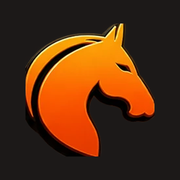
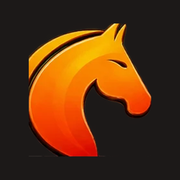
Nova arte do hero e hover por arraste no touch
Troca a arte pelo Tom de chapeu no microfone. Ela e quase quadrada
(1.003) contra 1.156 da anterior, entao o build passou a recalcular o
container do hero a partir da proporcao do arquivo em vez de usar os
valores cravados do export -- trocar a arte de novo nao quebra mais o
enquadramento.

O favicon tambem deixa de depender de coordenadas fixas: acha o cavalo
pelo maior bloco laranja saturado e quase quadrado no terco de baixo da
arte. Conferido nas duas artes.

Hover no celular: nao existe :hover no touch, so depois do toque e
ainda fica grudado. Agora o card sob o dedo recebe .ativo enquanto o
dedo passa. O build espelha cada regra .lnk:hover para .lnk.ativo, entao
hover novo que vier de export futuro ja entra junto.

Changed region(s): [[0.1389, 0.1111, 0.8611, 0.8889]]

diff --git a/index.html b/index.html
@@ -24,64 +24,7 @@ html { touch-action: manipulation; -webkit-text-size-adjust: 100%; text-size-adj
 }
 </style>
 <style>
-body{margin:0}
-a{color:inherit;text-decoration:none}a:hover{color:inherit}
-.chrome{font-family:'Archivo',sans-serif;font-weight:900;font-stretch:125%;line-height:1;color:transparent;-webkit-text-stroke:1.5px #2f343a;filter:drop-shadow(0 5px 4px rgba(0,0,0,.45))}
-.chrome{background:linear-gradient(105deg,transparent 42%,rgba(255,255,255,.95) 50%,transparent 58%),linear-gradient(180deg,#ffffff 0%,#e3e6ea 22%,#9aa0a8 44%,#5b6168 50%,#f5f7f9 56%,#c4c9cf 74%,#7d838b 100%);background-size:300% 100%,100% 100%;background-repeat:no-repeat;-webkit-background-clip:text;background-clip:text;animation:shine 4.5s ease-in-out infinite}
-@keyframes shine{0%,55%{background-position:120% 0,0 0}100%{background-position:-20% 0,0 0}}
-.m-beat{animation:beat .9s ease-in-out infinite;transform-origin:50% 60%}
-@keyframes beat{0%,100%{transform:scale(1)}12%{transform:scale(1.022)}30%{transform:scale(1.004)}45%{transform:scale(1.014)}}
-.m-line{animation:glow 2.4s ease-in-out infinite}
-@keyframes glow{0%,100%{opacity:.45;box-shadow:0 0 0 rgba(246,135,31,0)}50%{opacity:1;box-shadow:0 0 12px rgba(246,135,31,.8)}}
-.m-note{opacity:0;animation:note 4.4s ease-in-out infinite}
-@keyframes note{0%{opacity:0;transform:translateY(20px) rotate(-10deg) scale(.8)}20%{opacity:.9}70%{opacity:.7}100%{opacity:0;transform:translateY(-120px) rotate(12deg) scale(1.05)}}
-.m-float{animation:float 3.6s ease-in-out infinite}
-@keyframes float{0%,100%{transform:translateY(0)}50%{transform:translateY(-6px)}}
-.m-horse{transform-origin:40% 95%;animation:horse 1.8s ease-in-out infinite}
-@keyframes horse{0%,100%{transform:rotate(-3deg)}50%{transform:rotate(4deg) translateY(-3px)}}
-.m-shoe{transform-origin:50% 0;animation:shoe 2.2s ease-in-out infinite}
-@keyframes shoe{0%,100%{transform:rotate(-5deg)}50%{transform:rotate(5deg)}}
-.m-eq{transform-origin:right center;animation:eq .9s ease-in-out infinite}
-.m-eq.r{transform-origin:left center;animation-delay:-.45s}
-@keyframes eq{0%,100%{transform:scaleX(1)}25%{transform:scaleX(.45)}50%{transform:scaleX(.85)}75%{transform:scaleX(.6)}}
-.m-cta{animation:ctaglow 1.8s ease-in-out infinite,rise .7s ease-out .1s backwards}
-@keyframes ctaglow{0%,100%{box-shadow:0 10px 22px rgba(214,90,10,.28)}50%{box-shadow:0 12px 34px rgba(240,110,20,.55)}}
-.m-wave{transform-box:fill-box;transform-origin:center;animation:wave 2.6s ease-in-out infinite alternate}
-@keyframes wave{0%{transform:translateX(-8px) scaleY(.75)}100%{transform:translateX(8px) scaleY(1.25)}}
-.m-ring{position:absolute;inset:0;border-radius:50%;border:3px solid #FFFFFF;animation:ring 1.8s ease-out infinite}
-@keyframes ring{0%{transform:scale(1);opacity:.8}100%{transform:scale(1.6);opacity:0}}
-.m-play{animation:pop .9s ease-in-out infinite}
-@keyframes pop{0%,100%{transform:scale(1)}12%{transform:scale(1.08)}30%{transform:scale(1)}}
-.m-rise{animation:rise .7s ease-out backwards}
-@keyframes rise{0%{opacity:0;transform:translateY(30px)}100%{opacity:1;transform:translateY(0)}}
-.m-chev{animation:nudge 1.6s ease-in-out infinite}
-@keyframes nudge{0%,100%{transform:translateX(0)}50%{transform:translateX(6px)}}
-.m-bob{animation:bob 1.8s ease-in-out infinite}
-@keyframes bob{0%,100%{transform:translateY(0) scale(1)}50%{transform:translateY(-5px) scale(1.06)}}
-.m-pulse{transform-origin:50% 85%;animation:pulse .9s ease-in-out infinite}
-@keyframes pulse{0%,100%{transform:scale(1)}12%{transform:scale(1.012)}30%{transform:scale(1)}}
-.lnk{position:relative;overflow:hidden;transition:transform .45s cubic-bezier(.34,1.56,.64,1),box-shadow .35s ease,filter .35s ease;will-change:transform}
-.lnk::after{content:"";position:absolute;top:0;left:-60%;width:40%;height:100%;background:linear-gradient(105deg,transparent,rgba(255,190,120,.35),transparent);transform:skewX(-20deg);pointer-events:none;opacity:0}
-.lnk:hover{transform:translateY(-5px) scale(1.025);box-shadow:0 16px 30px rgba(214,90,10,.28)!important;filter:saturate(1.08)}
-.lnk:hover::after{animation:sweep .8s ease-out;opacity:1}
-@keyframes sweep{0%{left:-60%}100%{left:130%}}
-.lnk:active{transform:translateY(-1px) scale(.97);transition-duration:.12s}
-.lnk > svg:first-child,.lnk > svg:first-child + div,.lnk > svg:first-child + div + div{transition:transform .45s cubic-bezier(.34,1.56,.64,1),box-shadow .35s ease}
-.lnk:hover > svg:first-child{animation:iconPop .7s cubic-bezier(.34,1.56,.64,1)}
-@keyframes iconPop{0%{transform:scale(1) rotate(0)}30%{transform:scale(1.22) rotate(-10deg)}55%{transform:scale(.94) rotate(6deg)}75%{transform:scale(1.08) rotate(-3deg)}100%{transform:scale(1) rotate(0)}}
-.lnk:hover > svg:first-child + div{transform:scaleY(1.35);box-shadow:0 0 12px rgba(246,135,31,.9)}
-.lnk:hover > svg:first-child + div + div{transform:translateX(6px)}
-.lnk:hover .m-chev{animation:nudgeFast .45s ease-in-out infinite}
-@keyframes nudgeFast{0%,100%{transform:translateX(0) scale(1.1)}50%{transform:translateX(9px) scale(1.25)}}
-.lnk:hover .m-play{animation:spinPop .8s cubic-bezier(.34,1.56,.64,1)}
-@keyframes spinPop{0%{transform:scale(1) rotate(0)}40%{transform:scale(1.2) rotate(120deg)}100%{transform:scale(1) rotate(360deg)}}
-.lnk:hover .m-ring{animation-duration:.9s}
-.lnk:hover .m-wave{animation-duration:.6s!important}
-.lnk:hover .m-bob{animation:wiggle .6s ease-in-out}
-@keyframes wiggle{0%,100%{transform:rotate(0) scale(1)}25%{transform:rotate(-14deg) scale(1.2)}50%{transform:rotate(10deg) scale(1.15)}75%{transform:rotate(-5deg) scale(1.08)}}
-.still *{animation:none!important}
-.still .m-note{opacity:0}
-@media (prefers-reduced-motion:reduce){*{animation:none!important}.m-note{opacity:0}}
+body {margin:0}a {color:inherit;text-decoration:none}a:hover {color:inherit}.chrome {font-family:'Archivo',sans-serif;font-weight:900;font-stretch:125%;line-height:1;color:transparent;-webkit-text-stroke:1.5px #2f343a;filter:drop-shadow(0 5px 4px rgba(0,0,0,.45))}.chrome {background:linear-gradient(105deg,transparent 42%,rgba(255,255,255,.95) 50%,transparent 58%),linear-gradient(180deg,#ffffff 0%,#e3e6ea 22%,#9aa0a8 44%,#5b6168 50%,#f5f7f9 56%,#c4c9cf 74%,#7d838b 100%);background-size:300% 100%,100% 100%;background-repeat:no-repeat;-webkit-background-clip:text;background-clip:text;animation:shine 4.5s ease-in-out infinite}@keyframes shine {0%, 55% {background-position:120% 0,0 0}100% {background-position:-20% 0,0 0}}.m-beat {animation:beat .9s ease-in-out infinite;transform-origin:50% 60%}@keyframes beat {0%, 100% {transform:scale(1)}12% {transform:scale(1.022)}30% {transform:scale(1.004)}45% {transform:scale(1.014)}}.m-line {animation:glow 2.4s ease-in-out infinite}@keyframes glow {0%, 100% {opacity:.45;box-shadow:0 0 0 rgba(246,135,31,0)}50% {opacity:1;box-shadow:0 0 12px rgba(246,135,31,.8)}}.m-note {opacity:0;animation:note 4.4s ease-in-out infinite}@keyframes note {0% {opacity:0;transform:translateY(20px) rotate(-10deg) scale(.8)}20% {opacity:.9}70% {opacity:.7}100% {opacity:0;transform:translateY(-120px) rotate(12deg) scale(1.05)}}.m-float {animation:float 3.6s ease-in-out infinite}@keyframes float {0%, 100% {transform:translateY(0)}50% {transform:translateY(-6px)}}.m-horse {transform-origin:40% 95%;animation:horse 1.8s ease-in-out infinite}@keyframes horse {0%, 100% {transform:rotate(-3deg)}50% {transform:rotate(4deg) translateY(-3px)}}.m-shoe {transform-origin:50% 0;animation:shoe 2.2s ease-in-out infinite}@keyframes shoe {0%, 100% {transform:rotate(-5deg)}50% {transform:rotate(5deg)}}.m-eq {transform-origin:right center;animation:eq .9s ease-in-out infinite}.m-eq.r {transform-origin:left center;animation-delay:-.45s}@keyframes eq {0%, 100% {transform:scaleX(1)}25% {transform:scaleX(.45)}50% {transform:scaleX(.85)}75% {transform:scaleX(.6)}}.m-cta {animation:ctaglow 1.8s ease-in-out infinite,rise .7s ease-out .1s backwards}@keyframes ctaglow {0%, 100% {box-shadow:0 10px 22px rgba(214,90,10,.28)}50% {box-shadow:0 12px 34px rgba(240,110,20,.55)}}.m-wave {transform-box:fill-box;transform-origin:center;animation:wave 2.6s ease-in-out infinite alternate}@keyframes wave {0% {transform:translateX(-8px) scaleY(.75)}100% {transform:translateX(8px) scaleY(1.25)}}.m-ring {position:absolute;inset:0;border-radius:50%;border:3px solid #FFFFFF;animation:ring 1.8s ease-out infinite}@keyframes ring {0% {transform:scale(1);opacity:.8}100% {transform:scale(1.6);opacity:0}}.m-play {animation:pop .9s ease-in-out infinite}@keyframes pop {0%, 100% {transform:scale(1)}12% {transform:scale(1.08)}30% {transform:scale(1)}}.m-rise {animation:rise .7s ease-out backwards}@keyframes rise {0% {opacity:0;transform:translateY(30px)}100% {opacity:1;transform:translateY(0)}}.m-chev {animation:nudge 1.6s ease-in-out infinite}@keyframes nudge {0%, 100% {transform:translateX(0)}50% {transform:translateX(6px)}}.m-bob {animation:bob 1.8s ease-in-out infinite}@keyframes bob {0%, 100% {transform:translateY(0) scale(1)}50% {transform:translateY(-5px) scale(1.06)}}.m-pulse {transform-origin:50% 85%;animation:pulse .9s ease-in-out infinite}@keyframes pulse {0%, 100% {transform:scale(1)}12% {transform:scale(1.012)}30% {transform:scale(1)}}.lnk {position:relative;overflow:hidden;transition:transform .45s cubic-bezier(.34,1.56,.64,1),box-shadow .35s ease,filter .35s ease;will-change:transform}.lnk::after {content:"";position:absolute;top:0;left:-60%;width:40%;height:100%;background:linear-gradient(105deg,transparent,rgba(255,190,120,.35),transparent);transform:skewX(-20deg);pointer-events:none;opacity:0}.lnk:hover, .lnk.ativo {transform:translateY(-5px) scale(1.025);box-shadow:0 16px 30px rgba(214,90,10,.28)!important;filter:saturate(1.08)}.lnk:hover::after, .lnk.ativo::after {animation:sweep .8s ease-out;opacity:1}@keyframes sweep {0% {left:-60%}100% {left:130%}}.lnk:active {transform:translateY(-1px) scale(.97);transition-duration:.12s}.lnk > svg:first-child, .lnk > svg:first-child + div, .lnk > svg:first-child + div + div {transition:transform .45s cubic-bezier(.34,1.56,.64,1),box-shadow .35s ease}.lnk:hover > svg:first-child, .lnk.ativo > svg:first-child {animation:iconPop .7s cubic-bezier(.34,1.56,.64,1)}@keyframes iconPop {0% {transform:scale(1) rotate(0)}30% {transform:scale(1.22) rotate(-10deg)}55% {transform:scale(.94) rotate(6deg)}75% {transform:scale(1.08) rotate(-3deg)}100% {transform:scale(1) rotate(0)}}.lnk:hover > svg:first-child + div, .lnk.ativo > svg:first-child + div {transform:scaleY(1.35);box-shadow:0 0 12px rgba(246,135,31,.9)}.lnk:hover > svg:first-child + div + div, .lnk.ativo > svg:first-child + div + div {transform:translateX(6px)}.lnk:hover .m-chev, .lnk.ativo .m-chev {animation:nudgeFast .45s ease-in-out infinite}@keyframes nudgeFast {0%, 100% {transform:translateX(0) scale(1.1)}50% {transform:translateX(9px) scale(1.25)}}.lnk:hover .m-play, .lnk.ativo .m-play {animation:spinPop .8s cubic-bezier(.34,1.56,.64,1)}@keyframes spinPop {0% {transform:scale(1) rotate(0)}40% {transform:scale(1.2) rotate(120deg)}100% {transform:scale(1) rotate(360deg)}}.lnk:hover .m-ring, .lnk.ativo .m-ring {animation-duration:.9s}.lnk:hover .m-wave, .lnk.ativo .m-wave {animation-duration:.6s!important}.lnk:hover .m-bob, .lnk.ativo .m-bob {animation:wiggle .6s ease-in-out}@keyframes wiggle {0%, 100% {transform:rotate(0) scale(1)}25% {transform:rotate(-14deg) scale(1.2)}50% {transform:rotate(10deg) scale(1.15)}75% {transform:rotate(-5deg) scale(1.08)}}.still * {animation:none!important}.still .m-note {opacity:0}@media (prefers-reduced-motion:reduce) {* {animation:none!important}.m-note {opacity:0}}
 </style>
 </head>
 <body>
@@ -101,8 +44,8 @@ a{color:inherit;text-decoration:none}a:hover{color:inherit}
       <svg class="m-note" width="28" height="28" viewBox="0 0 24 24" fill="none" stroke="#1E1A17" stroke-width="2" stroke-linecap="round" stroke-linejoin="round" style="position: absolute; left: 790px; top: 250px; animation-delay: -3.3s"><path d="M9 18V5l10-2v13"></path><circle cx="6" cy="18" r="3" fill="#1E1A17"></circle><circle cx="16" cy="16" r="3" fill="#1E1A17"></circle></svg>
     </div>
 
-    <div class="m-float" style="position: absolute; left: 125px; top: 10px; width: 690px; height: 597px">
-      <img class="m-pulse" fetchpriority="high" decoding="async" src="./assets/artista.webp" alt="Tom Vaqueiro segurando uma caixa de som, com o logo Tom Vaqueiro" style="width: 690px; height: 597px; object-fit: contain; display: block; filter: drop-shadow(0 10px 14px rgba(90,40,0,.25))">
+    <div class="m-float" style="position: absolute; left: 166px; top: 10px; width: 610px; height: 608px">
+      <img class="m-pulse" fetchpriority="high" decoding="async" src="./assets/artista.webp" alt="Tom Vaqueiro segurando uma caixa de som, com o logo Tom Vaqueiro" style="width: 610px; height: 608px; object-fit: contain; display: block; filter: drop-shadow(0 10px 14px rgba(90,40,0,.25))">
     </div>
     <div style="position: absolute; left: 0; top: 628px; width: 941px; display: flex; align-items: center; justify-content: center; gap: 28px">
       <div class="m-eq" style="width: 96px; height: 3px; background: #F6871F"></div>
@@ -195,6 +138,37 @@ a{color:inherit;text-decoration:none}a:hover{color:inherit}
   document.addEventListener('wheel', function (e) {
     if (e.ctrlKey || e.metaKey) e.preventDefault();
   }, { passive: false });
+
+  // Hover ao arrastar o dedo. No touch o :hover so entra depois do
+  // toque e fica grudado; aqui o card sob o dedo recebe .ativo e larga
+  // assim que o dedo sai. elementFromPoint usa coordenadas de tela e ja
+  // leva em conta o scale do canvas, entao nao precisa converter nada.
+  var ativo = null;
+
+  function marcar(el) {
+    if (ativo === el) return;
+    if (ativo) ativo.classList.remove('ativo');
+    ativo = el;
+    if (ativo) ativo.classList.add('ativo');
+  }
+
+  function sobODedo(toque) {
+    var el = document.elementFromPoint(toque.clientX, toque.clientY);
+    return el && el.closest ? el.closest('.lnk') : null;
+  }
+
+  ['touchstart', 'touchmove'].forEach(function (ev) {
+    document.addEventListener(ev, function (e) {
+      if (e.touches.length === 1) marcar(sobODedo(e.touches[0]));
+    }, { passive: true });
+  });
+
+  ['touchend', 'touchcancel'].forEach(function (ev) {
+    // segura um instante para o efeito ser visto antes de soltar
+    document.addEventListener(ev, function () {
+      setTimeout(function () { marcar(null); }, 180);
+    }, { passive: true });
+  });
 })();
 </script>
 </body>
